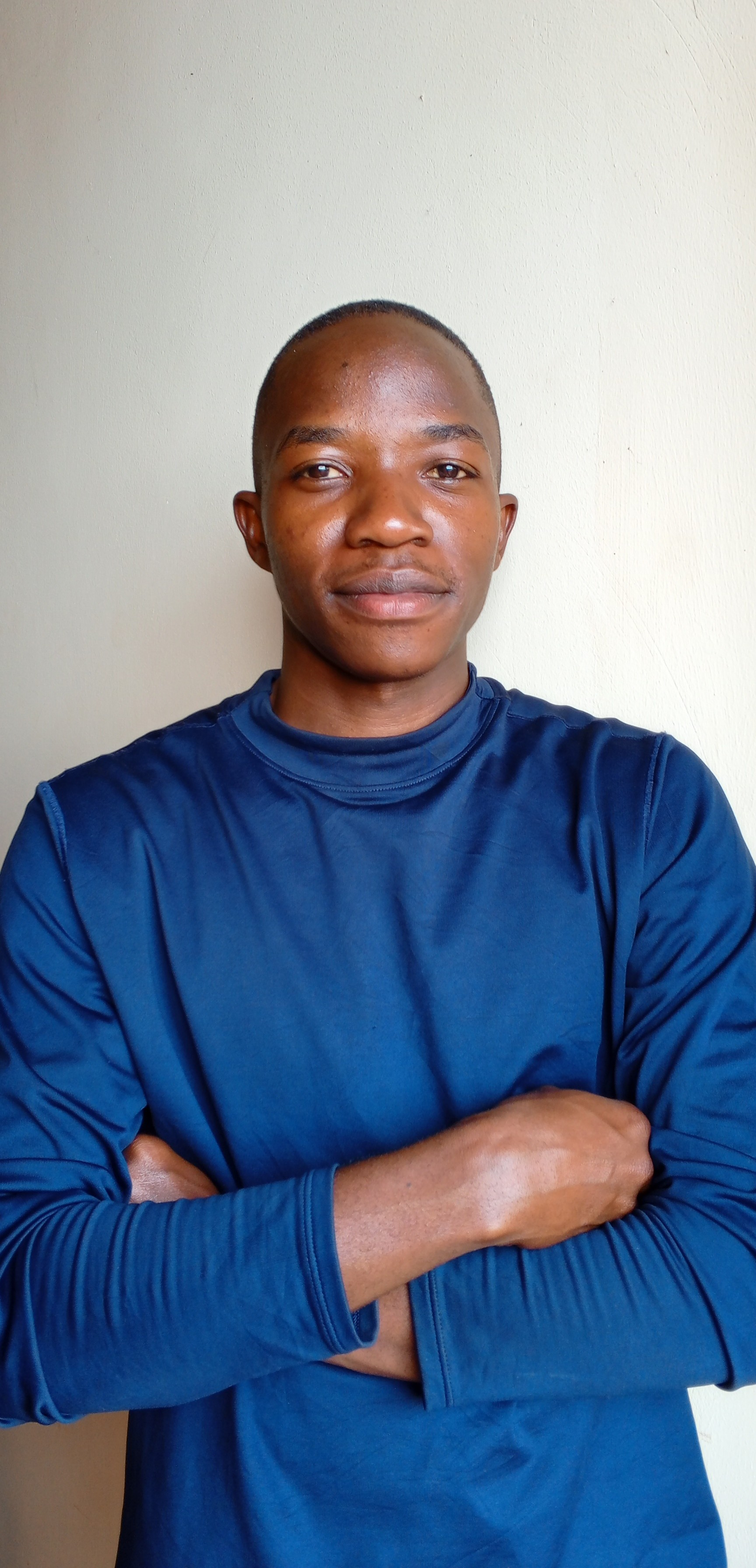
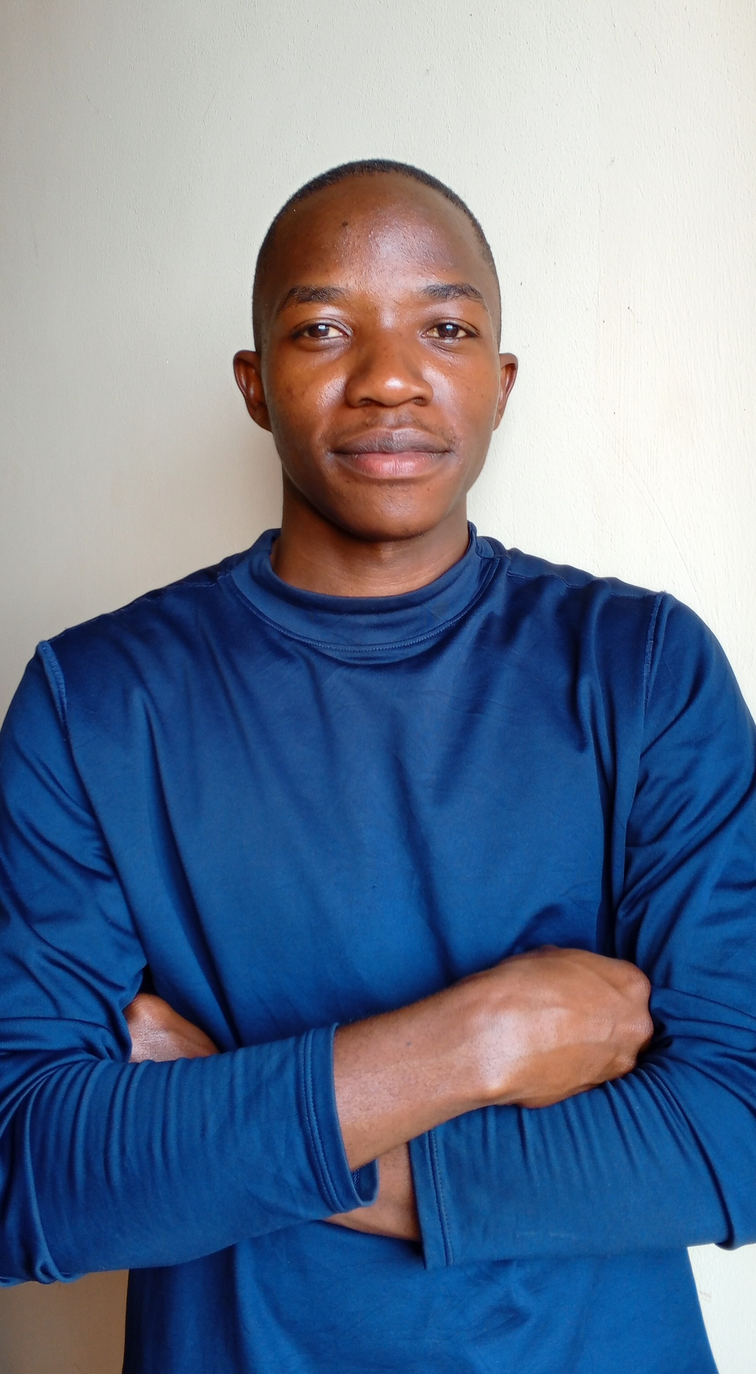
corrected errors shown in dev tools

diff --git a/week01/index.html b/week01/index.html
@@ -5,7 +5,27 @@
     <meta charset="UTF-8">
     <meta name="viewport" content="width=device-width, initial-scale=1.0">
     <title>WDD 131</title>
-    <link rel="stylesheet" href="styles/base.css">
+    <style>
+        /* Critical CSS */
+        header {
+            background-color: #003366;
+            color: white;
+            text-align: center;
+        }
+
+        header h1 {
+            margin-bottom: 10px;
+            font-size: 1.8em;
+        }
+
+        header h1 span {
+            color: #ffcc00;
+        }
+    </style>
+    <link rel="stylesheet" href="styles/base.css" media="print" onload="this.media='all'">
+    <noscript>
+        <link rel="stylesheet" href="styles/base.css">
+    </noscript>
 </head>
 
 <body>
@@ -26,19 +46,19 @@
             <h2>About Me</h2>
             <div class="content">
                 <p>My name is Brigham Iga. I was born in Uganda which is commonly known as the pearl of Africa. I am a
-                    video editor and i love playing basketball in my free time. I am part of a loving family of good and
-                    caring parents and siblings </p>
-                <img src="images/iga 2.jpg" alt="My image">
+                    video editor and I love playing basketball in my free time. I am part of a loving family of good and
+                    caring parents and siblings.</p>
+                <img src="images/Iga 4.jpg" alt="My image" width="300" height="400">
             </div>
         </section>
 
         <section class="card madagascar">
             <h2>Uganda</h2>
             <div class="content">
-                <img src="images/flag.jpg" alt="Uganda Flag">
-                <p>Uganda is known for it's famous river nile; it has the source of the Nile which has become a big
-                    tourist attraction to the country. it also has amazing animals and some of the sweetest fruits in
-                    the world in diverse flavours. Uganda us also know for its rich in diverse foods that are full of
+                <img src="images/flag.jpg" alt="Uganda Flag" width="300" height="200">
+                <p>Uganda is known for its famous river Nile; it has the source of the Nile which has become a big
+                    tourist attraction to the country. It also has amazing animals and some of the sweetest fruits in
+                    the world in diverse flavors. Uganda is also known for its rich and diverse foods that are full of
                     great nutrients that edify the body and its immunity.</p>
             </div>
         </section>

diff --git a/week01/styles/layout.css b/week01/styles/layout.css
@@ -1,50 +1,76 @@
 
+* {
+    box-sizing: border-box;
+    margin: 0;
+}
+
 body {
-    margin:  0;
-    font-family: Ariel,Verdana, Geneva, Tahoma, sans-serif;
-    display: grid;
-    grid-template-rows: auto auto 1fr auto;
-    grid-template-columns: 1fr;
-    height: 100vh;
+    font-family: Arial, sans-serif;
+    line-height: 1.6;
+    background-color: #ffffff;
 }
 
-.header {
-    background-color: white;
-    color: white;
-    text-align: center;
-    padding: 1 rem;
-}
-
-.nav {
-    background-color: black;
-    color: white;
+nav ul {
+    list-style: none;
     display: flex;
-    justify-content: space-around;
-    padding: 0.5rem;
+    justify-content: center;
+    gap: 130px;
+    padding: 10px 0;
+    background-color: #00509e;
 }
 
-.main {
+nav ul li a {
+    color: white;
+    text-decoration: none;
+    font-size: 1rem;
+    transition: color 0.3s;
+}
+
+nav ul li a:hover {
+    color: #ffcc00;
+}
+
+main {
     display: grid;
     grid-template-columns: 2fr 1fr;
-    gap: 1 rem;
-    background-color: #ccc;
-    padding: 1 rem;
+    gap: 20px;
+    max-width: 1200px;
+    margin: 20px auto;
+    padding: 0 20px;
 }
 
-.content {
-    background-color: #f4f4f4;
-    padding: 1 rem;
+.card, .resources {
+    background-color: #f8f9fa;
+    border-radius: 8px;
+    box-shadow: 0 2px 4px rgba(0, 0, 0, 0.1);
+    padding: 20px;
 }
 
-.aside {
-    background-color: #fff;
-    padding: 1 rem;
+.card h2, .resources h2 {
+    text-align: center;
+    color: white;
+    background-color: #003366;
+    padding: 10px;
+    border-radius: 7px;
 }
 
-.footer {
-    background-color: #333;
+.resources ul li a {
+    color: #00509e;
+    transition: color 0.3s;
+}
+
+.resources ul li a:hover {
+    color: #ff5733;
+}
+
+footer {
+    background-color: #003366;
     color: white;
     text-align: center;
-    padding: 1 rem
-    ;
+    padding: 10px 0;
+    margin-top: 20px;
+}
+
+footer p {
+    margin: 5px 0;
 }

diff --git a/week01/styles/base.css b/week01/styles/base.css
@@ -3,19 +3,19 @@
 * {
     box-sizing: border-box;
     margin: 0;
-    padding: 0;
+   /* padding: 0;*/
 }
 
 body {
     font-family: Arial, sans-serif;
     line-height: 1.6;
-    background-color: #f0f0f0;
-    color: #333;
+    background-color: #ffffff;
+    /*color: #333;*/
 }
 
 /* Header */
 header {
-    background-color: #2a4563;
+    background-color: #003366;
     color: white;
     text-align: center;
     
@@ -28,7 +28,7 @@ header h1 {
 }
 
 header h1 span {
-    color: yellow;
+    color: #ffcc00;
 }
 
 nav ul {
@@ -39,7 +39,7 @@ nav ul {
     padding: 10px 0;
     margin: 0;
     margin-top: 50px;
-    background-color: #333;
+    background-color: #00509e;
 }
 
 nav ul li a {
@@ -50,7 +50,7 @@ nav ul li a {
 }
 
 nav ul li a:hover {
-    color: lightblue;
+    color: #ffcc00;
 }
 
 /* Main Content Layout */
@@ -81,7 +81,7 @@ main {
 
 /* Section and Aside Styling */
 .card, .resources {
-    background-color: #fff;
+    background-color:#f8f9fa;
     border-radius: 8px;
     box-shadow: 0 2px 4px rgba(0, 0, 0, 0.1);
     padding: 20px;
@@ -89,8 +89,8 @@ main {
 
 .card h2, .resources h2 {
     text-align: center;
-    color: #2a4563;
-    background-color: yellow;
+    color: white;
+    background-color: #003366;
     width: 100%;
     padding: 0;
     border-radius: 7px;
@@ -119,17 +119,17 @@ main {
 
 .resources ul li a {
     /*text-decoration: none;*/
-    color: #333;
+    color: #00509e;
     transition: color 0.3s;
 }
 
 .resources ul li a:hover {
-    color:blue;
+    color:#ff5733;
 }
 
 /* Footer */
 footer {
-    background-color: #2a4563;
+    background-color: #003366;
     color: white;
     text-align: center;
     padding: 10px 0;
